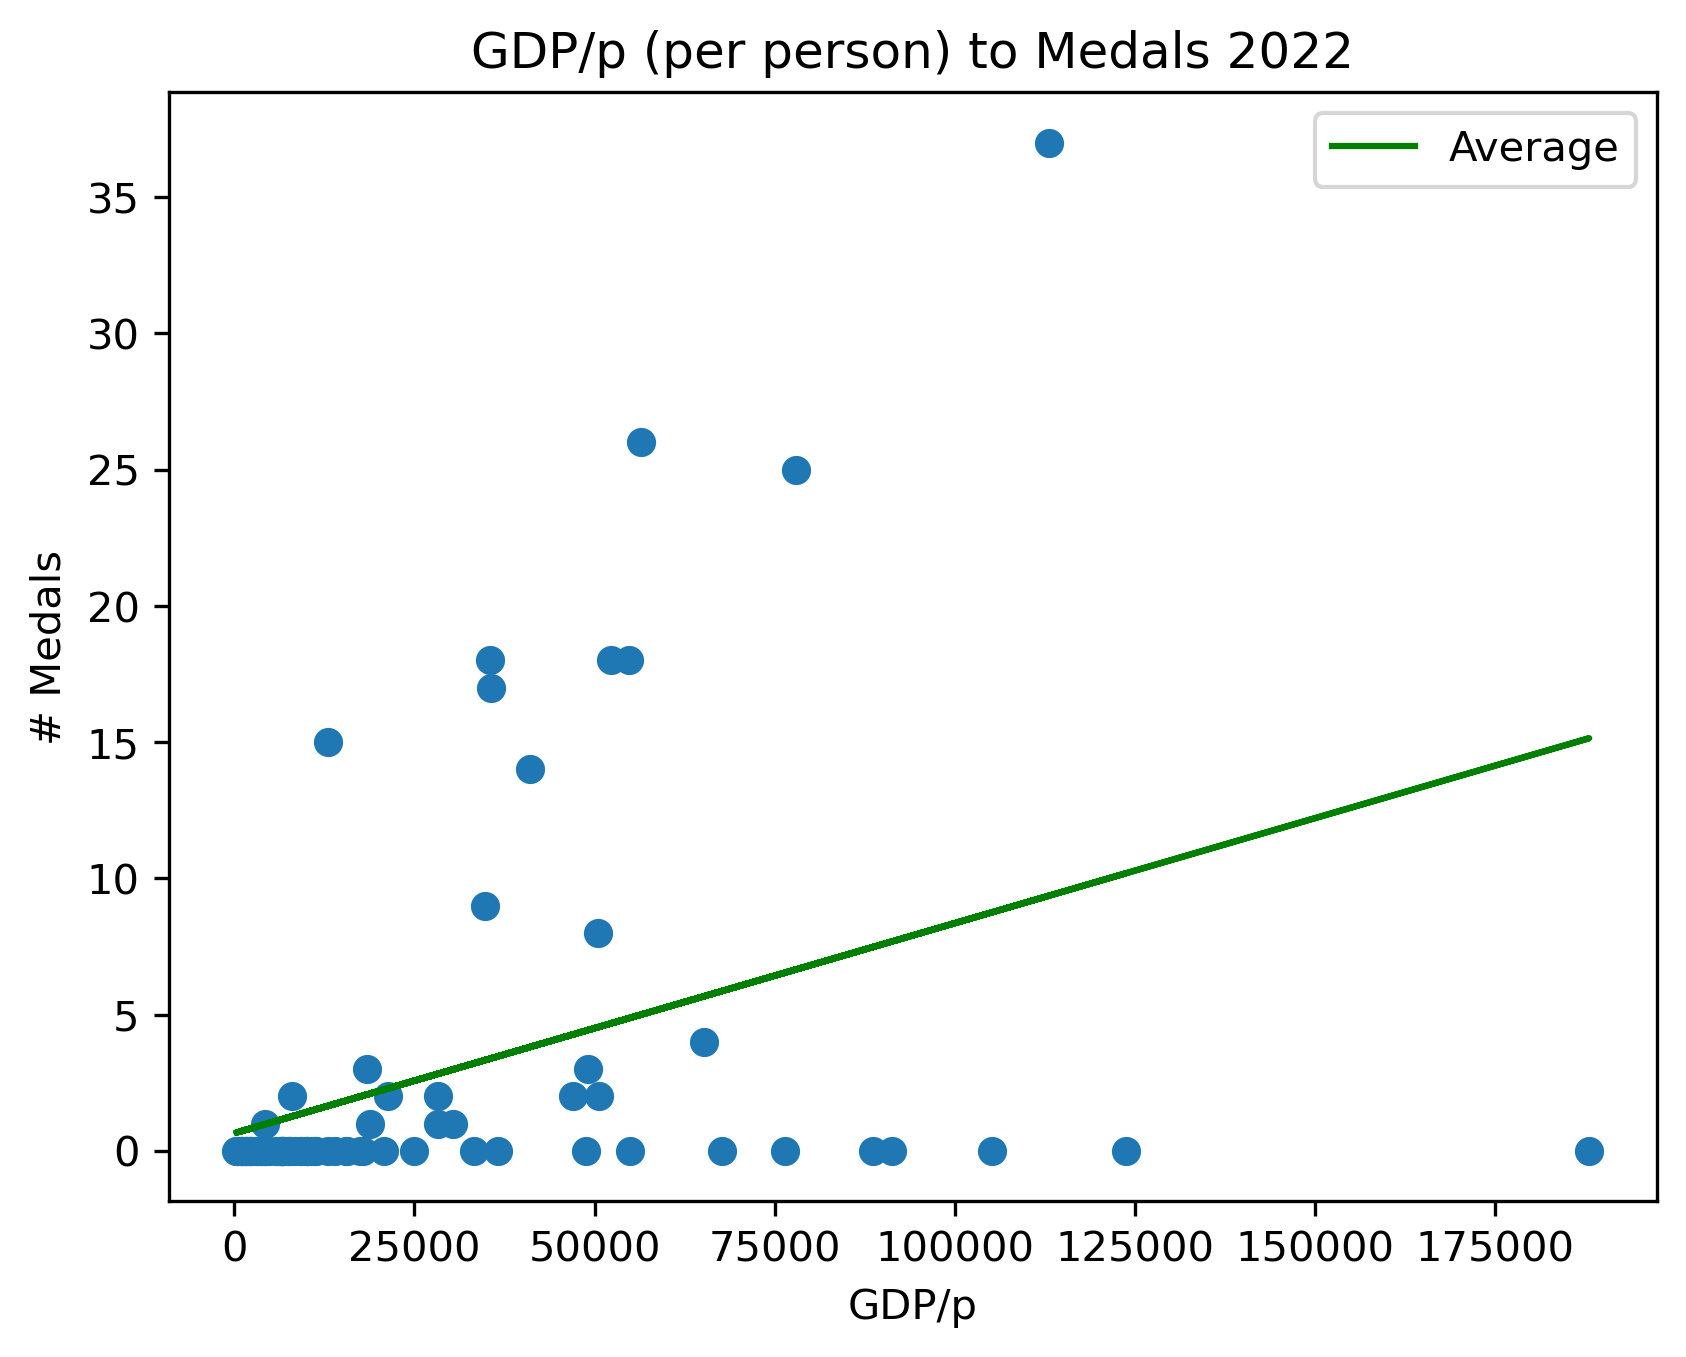
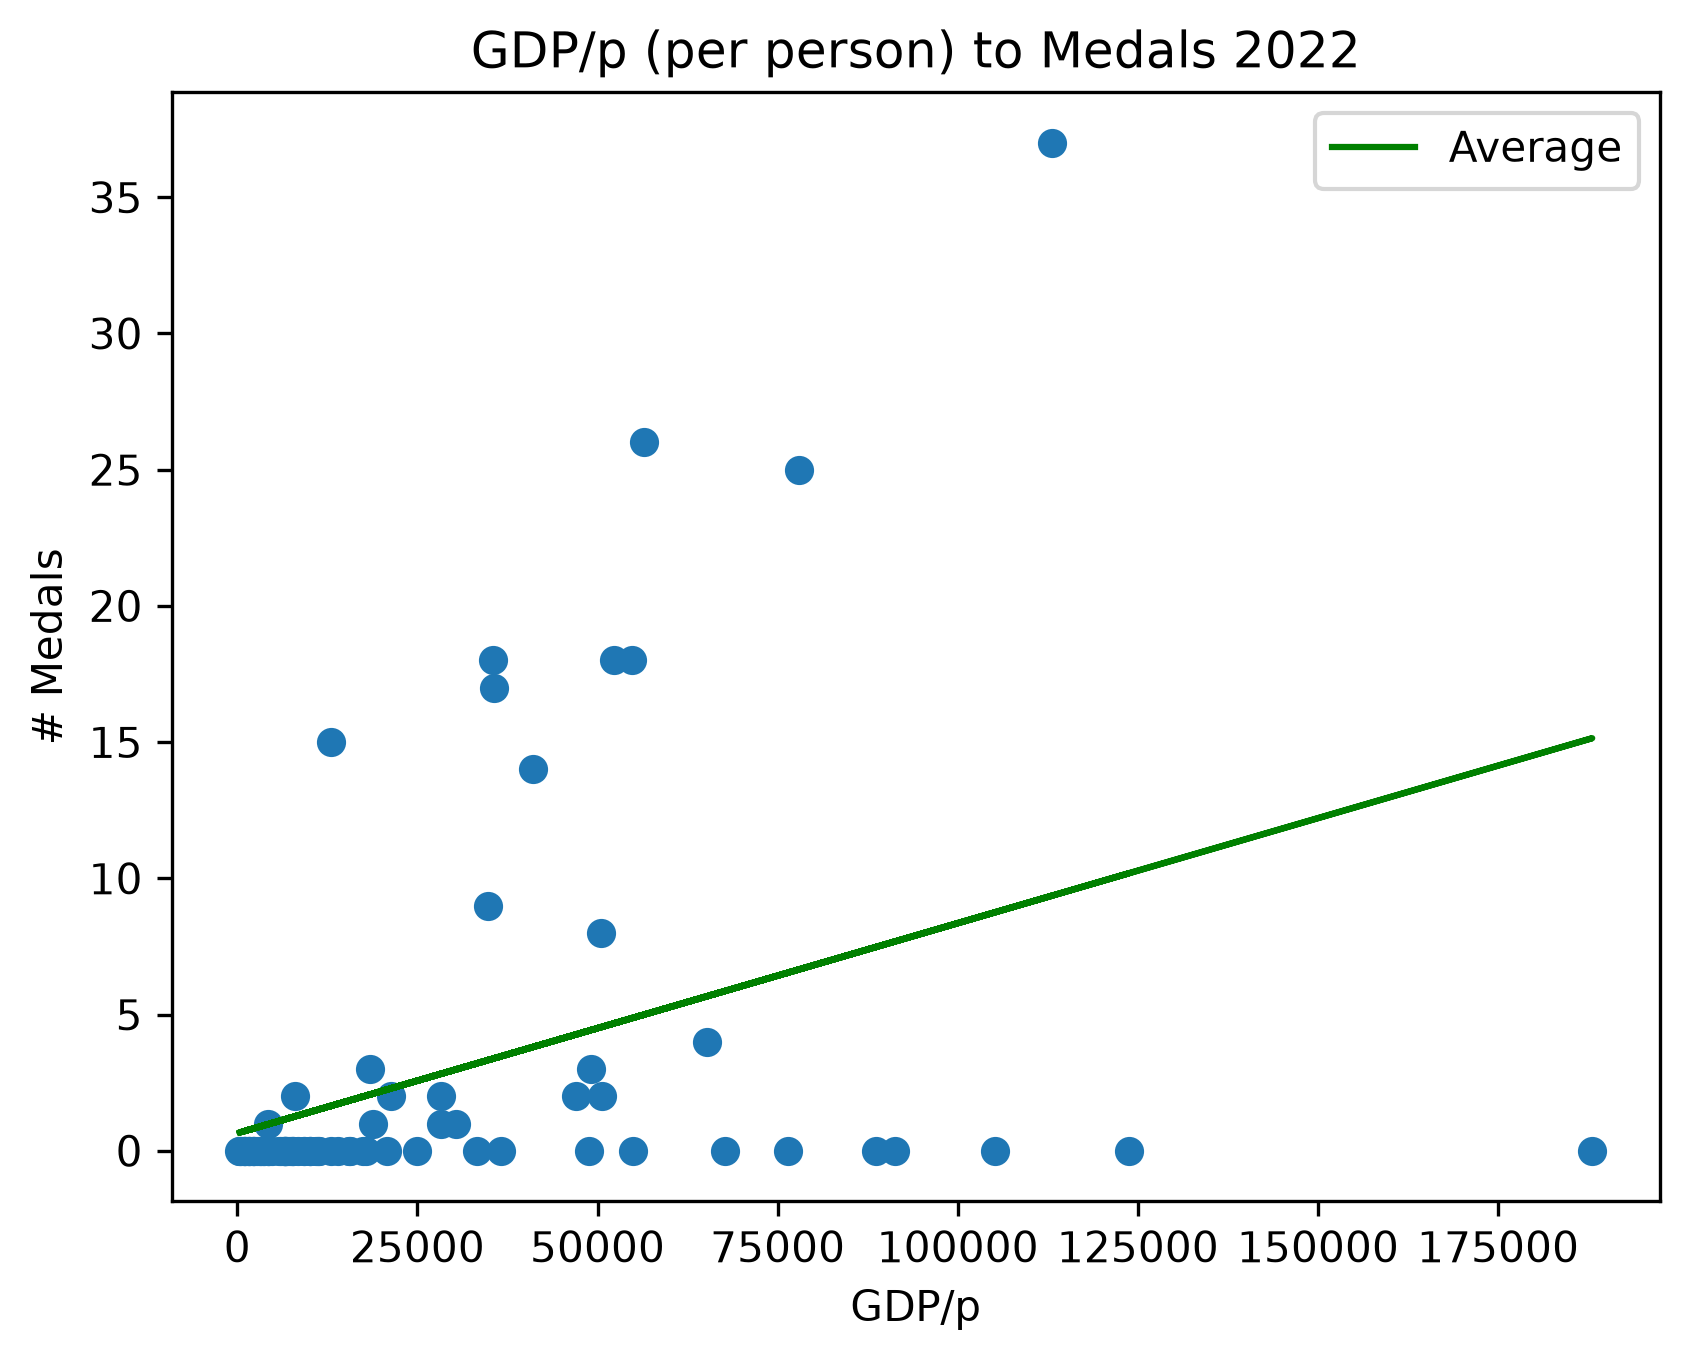
🔖 completed the README for prod, added year input

diff --git a/src/results.py b/src/results.py
@@ -6,7 +6,6 @@ from population import PopulationData
 from medals import MedalData
 
 import math
-
 import matplotlib.pyplot as plt
 import numpy as np
 
@@ -30,7 +29,7 @@ def scatter(title: str, points: list[tuple[int, int]], x_axis: str, y_axis: str,
     plt.show()
 
 def wealth_to_medals(medal_data: MedalData, relgdp_data: GdpData, year=2022):
-    print(f"\n\nGDP/p (per person) to Medals for {year}")
+    print(f"\n\nGDP/p to Medals for {year}")
     points = []
     for country in relgdp_data.by_year[year]:
         gdp = relgdp_data.by_year[year][country]
@@ -41,7 +40,7 @@ def wealth_to_medals(medal_data: MedalData, relgdp_data: GdpData, year=2022):
         num_medals = len(medals_in_year)
         print(f"{country} : GDP/p = {gdp}$ ; ∑medals = {num_medals}")
         points.append((gdp, num_medals))
-    scatter(f"GDP/p (per person) to Medals {year}", points, x_axis="GDP/p", y_axis="# Medals", filename=f"../results/gdp_to_medals_{year}.png", do_avg=True)
+    scatter(f"GDP/p to Medals {year}", points, x_axis="GDP/p", y_axis="# Medals", filename=f"../results/gdppc_to_medals_{year}.png", do_avg=True)
 
 def population_to_medals(medal_data: MedalData, population_data: PopulationData, year=2022):
     print(f"\n\nPopulation to Medals for {year}")
@@ -58,7 +57,7 @@ def population_to_medals(medal_data: MedalData, population_data: PopulationData,
     scatter(f"Population to Medals {year}", points, x_axis="Population", y_axis="# Medals", filename=f"../results/population_to_medals_{year}.png", do_avg=True)
 
 def total_gdp_to_medals(medal_data: MedalData, relgdp_data: GdpData, population_data: PopulationData, year=2022):
-    print(f"\n\nTotal GDP to Medals for {year}")
+    print(f"\n\nGDP to Medals for {year}")
     points = []
     for country, gdp_per_capita in relgdp_data.by_year[year].items():
         population = population_data.by_year[year].get(country, None)
@@ -75,13 +74,22 @@ def total_gdp_to_medals(medal_data: MedalData, relgdp_data: GdpData, population_
         num_medals = len(medals_in_year)
         print(f"{country} : GDP = {total_gdp:.0f}$ ({gdp_db:.1f} dB$) ; ∑medals = {num_medals}")
         points.append((gdp_db, num_medals))
-    scatter(f"Total GDP to Medals {year}", points, x_axis="GDP (dB$)", y_axis="# Medals", filename=f"../results/total_gdp_to_medals_{year}.png", do_avg=True)
+    scatter(f"GDP to Medals {year}", points, x_axis="GDP (dB$)", y_axis="# Medals", filename=f"../results/gdp_to_medals_{year}.png", do_avg=True)
 
 if __name__ == '__main__':
+    year = 2022
+    import sys
+    if len(sys.argv) > 1:
+        wants = int(sys.argv[1])
+        if wants % 4 == 2 and 1961 < wants < 2023:
+            year = wants
+        else:
+            raise ValueError("You have entered an invalid year.")
+
     relgdp = read_gdp()
     population = read_population()
     medals = read_medals()
 
-    wealth_to_medals(medals, relgdp)
-    population_to_medals(medals, population)
-    total_gdp_to_medals(medals, relgdp, population)
+    wealth_to_medals(medals, relgdp, year=year)
+    population_to_medals(medals, population, year=year)
+    total_gdp_to_medals(medals, relgdp, population, year=year)

diff --git a/README.md b/README.md
@@ -12,23 +12,17 @@ cd src/
 py results.py
 ```
 **On Linux**
-
-1. make sure you opend the src/ dir
-   before executing results.py 
-2. install numpy via pip install numpy 
-    or follow the instruction for your specific distro 
-3. python3 resource.py
-
-
-## The Guidelines
-
-* Use [emojis](https://gitmoji.dev) for commits.
-* Code is to be written in Python.
-* Use comments!
-* Data is stored compressed; please extract the files directly below `./data/`
+```linux
+cd src/
+source ./bin/activate
+py results.py
+```
+Alternatively, you can install them globally with `pip install matplotlib numpy`. Please make sure you're running the code from inside the `src/` directory.
+The program will show results for 2022 by default. You can add any olympic year starting 1962 as a parameter when executing.
+The console output will show the individual data points in addition to the graphic representation. Close the window to move on to the next statistic. All graphs will also be output as a PNG to `results/`.
 
 
-## The Sources
+## Sources
 
 | Data              | Source        | Format     | Years       | Notes                          |
 | ----------------- | ------------- | ---------- | ----------- | ------------------------------ |
@@ -44,35 +38,28 @@ py results.py
 [OECD.org](https://data-explorer.oecd.org/vis?lc=en&df%5Bds%5D=dsDisseminateFinalDMZ&df%5Bid%5D=DSD_POPULATION%40DF_POP_HIST&df%5Bag%5D=OECD.ELS.SAE&df%5Bvs%5D=1.0&dq=AUS..PS._T..&pd=2014,2024&to%5BTIME_PERIOD%5D=false)
 
 
-## The Plan
+## Concept
 
-1. Check the data.
-2. Parse the data with Python.
-3. Pretty graphs.
+**These:** Wenn wir davon ausgehen, dass Talent und Genetik mehr oder weniger gleichmäßig verteilt sind, sollte die Bevölkerung eines Landes der entscheidende Faktor bei internationalem sportlichen Erfolg sein. Mehr Menschen = mehr Talent = mehr erfolgreiche Sportler*innen. Wir glauben jedoch, dass der Wohlstand eines Landes einen wesentlich stärkeren Einfluss auf dessen sportliche Erfolge hat. Unsere Vermutung ist dabei, dass eine arme Bevölkerung weniger Zeit für sportliche Aktivitäten, und weniger Chancen auf die benötigte Förderung hat.
 
-# Fazit
-## Unser These 
- 
-Das Bruttoinlandsprodukt eines Landes, hat einen Einfluss
-auf den Erfolg bei den olympischen Spielen.
- 
-## Unsere Daten
- 
-Zur Überprüfung unserer These, analysieren wir das Bruttoinlandsprodukt eines Landes,
-sowie deren Bevölkerungsanzahl und die Anzahl der gewonnenen Olympia Medaillen.
- 
-## Ergebnis
+**Methodik:** Im Internet haben wir drei Datensätze aus verlässlichen Quellen gefunden (siehe oben). Wir verwenden das BIP-pro-Person (auch _GDP per capita_ oder _GDP/p_) als Wohlstandsindikator (berechnet als `BIP~gesamt / Bevölkerungszahl`), und messen es gegen die Anzahl von olympischen Medaillen des jeweiligen Landes im Jahr 2022. Dasselbe machen wir auch mit der Bevölkerungszahl, um einen möglichen Vergleich zu schließen. Es wir dabei nicht im Rang unterschieden; Bronze, Silber und Gold werden immer als eine Medaille gewertet. Wir analysieren die Daten mithilfe eines [Scatter-Plots](https://en.wikipedia.org/wiki/Scatter_plot) und generieren eine Trendlinie durch [lineare Regression](https://en.wikipedia.org/wiki/Linear_regression).
 
-![GDP to Medals 2022 Graph](https://github.com/InACommandBlock/olympic-inequality/blob/master/results/gdp_to_medals_2022.png)
-![Population to Medals 2022 Graph](https://github.com/InACommandBlock/olympic-inequality/blob/master/results/population_to_medals_2022.png)
-![Total GDP to Medals 2022](https://github.com/InACommandBlock/olympic-inequality/blob/master/results/total_gdp_to_medals_2022.png) 
- 
-Das Ergebnis spricht für unsere These, wobei es interessante statistische Ausreißer gibt.
-Diese lassen sich durch die Größe der jeweiligen Bevölkerung erklären.
-Ein Land mit wenig Bevölkerung hat weniger Medaillen.
- 
-## Aber...
- 
-Wenn man dann die Bevölkerungs - Medaillendichte betrachtet findet man eine starke Korrelation mit der Medaillendichte.
-Dies spricht für unsere These.
+## Results
 
+**Ergebnisse 1:** Bei Bevölkerung-zu-Medaillen (Graph 1) sieht man bereits einen aufsteigenden Trend; Länder mit höherer Bevölkerung erreichen tendenziell mehr Medaillen. Diese Korrelation ist jedoch sichtbar schwach. Ein Großteil der Medaillen werden von Ländern unter 150 Millionen Einwohnern gewonnen, die zwei stärksten Länder (Norwegen;37;5.4mi / Canada;26;39mi) sind sogar unter 100 Millionen. Die zwei größten Länder (China;15;1425.2mi / Indien;0;1425.4mi) haben hingegen wenig Medaillen in Proportion zu ihrer Bevölkerung.
+* Angaben in `Land;Anzahl Medaillen;Bevölkerung in Millionen`
+
+**Ergebnisse 2:** Bei BIP-pro-Person-zu-Medaillen (Graph 2) sieht man ebenfalls einen aufsteigenden Trend; höherer Wohlstand führt zu mehr Medaillen. Der Trend ist hierbei schon deutlich stärker, teils auch weil die Verteilung entlang der X-Achse hier gleichmäßiger ist. Der Extremfall hier ist Lichtenstein mit 188055$ BIP pro Person und keiner Medaille. Dennoch sieht man hier eine deutliche Proportionalität; Länder mit höherem Wohlstand erreichen mehr Medaillen. Ein Großteil der Länder unter 25000$ (zum Vergleich, Deutschland hat aktuell 60496$) erreichen einzelne oder überhaupt keine Medaillen.
+
+**Ergebnisse 3:** Nach der Auswertung der geplanten zwei Graphen entschieden wir uns einen dritten zu erstellen, in dem wir die Problematiken der anderen zu umgehen versuchten. Diese waren:
+1. Die exponentielle Verteilung der Werte, zB. dass die meisten Länder zwischen 1-100 Millionen Einwohnern liegen, China und Indien jedoch mit 1,4 Milliarden Einwohnern die Skala verzerren. Dasselbe gilt auch für BIP-pro-Person, wo Werte von 301$ (Burundi) bis 188055$ (Lichtenstein) gehen.
+2. Dass Bevölkerung und Wohlstand separat ausgewertet werden, obwohl sie häufig invers proportional sind. Dadurch stehen beim Wohlstand viele Länder vorne, die aber sehr wenige Einwohner haben, und ebenso stehen bei Bevölkerung viele Länder vorne, die aber sehr wenig Wohlstand haben.
+Bei Dezibel-BIP (Graph 3) nutzen wir das BIP (berechnet durch `BIP/Person * Einwohnerzahl`) als kombinierten Wohlstands- und Bevölkerungsindex, und wenden zudem eine Dezibel-Skala (`y = log~10(x)`, also `x*10 -> y+1`) an, um die Werte besser zu verteilen. Im darausfolgenden Graph sieht man eine klare Tendenz; ein höheres BIP führt auch zu mehr olympischen Medaillen.
+
+**Fazit:** Der Wohlstand eines Landes trägt deutlich zu dessen Erfolg bei den olympischen Spielen teil, noch wesentlich mehr als Einwohnerzahl. Ein Großteil der Medaillen geht meist an Länder mit mittlerem oder hohem BIP. Man sollte die Ergebnisse mit größeren Datenmengen und konkreteren Faktoren erweitern und überprüfen.
+Auch wenn dieser Trend statistisch signifikant ist, ist er noch längst keine Garantie. Es gibt viele weitere Faktoren, die hier eine Rolle spielen könnten, zum Beispiel staatliche Investitionen in Sportangebote, Universitäten und Sporthochschulen, die Vermögensverteilung, uvm. Auch die bestimmten Sportarten machen vermutlich einen Unterschied, denn Sporte wie Tennis und Reiten sind oft weniger zugänglich zu niedrigen Einkommensschichten. Besonders interessant wäre eine Analyse inwiefern Siege in vorangegangenen Jahren auch zu weiteren Siegen führen, ob durch stärkere Förderungen, mehr Begeisterung, oder psychologische Einflüsse.
+Weitere Forschung ist benötigt, um die gefundenen Ergebnisse zu verifizieren.
+
+![Population to Medals 2022](https://github.com/InACommandBlock/olympic-inequality/blob/master/results/population_to_medals_2022.png)
+![GDP-per-capita to Medals 2022](https://github.com/InACommandBlock/olympic-inequality/blob/master/results/gdp_to_medals_2022.png)
+![GDP to Medals 2022](https://github.com/InACommandBlock/olympic-inequality/blob/master/results/total_gdp_to_medals_2022.png)
